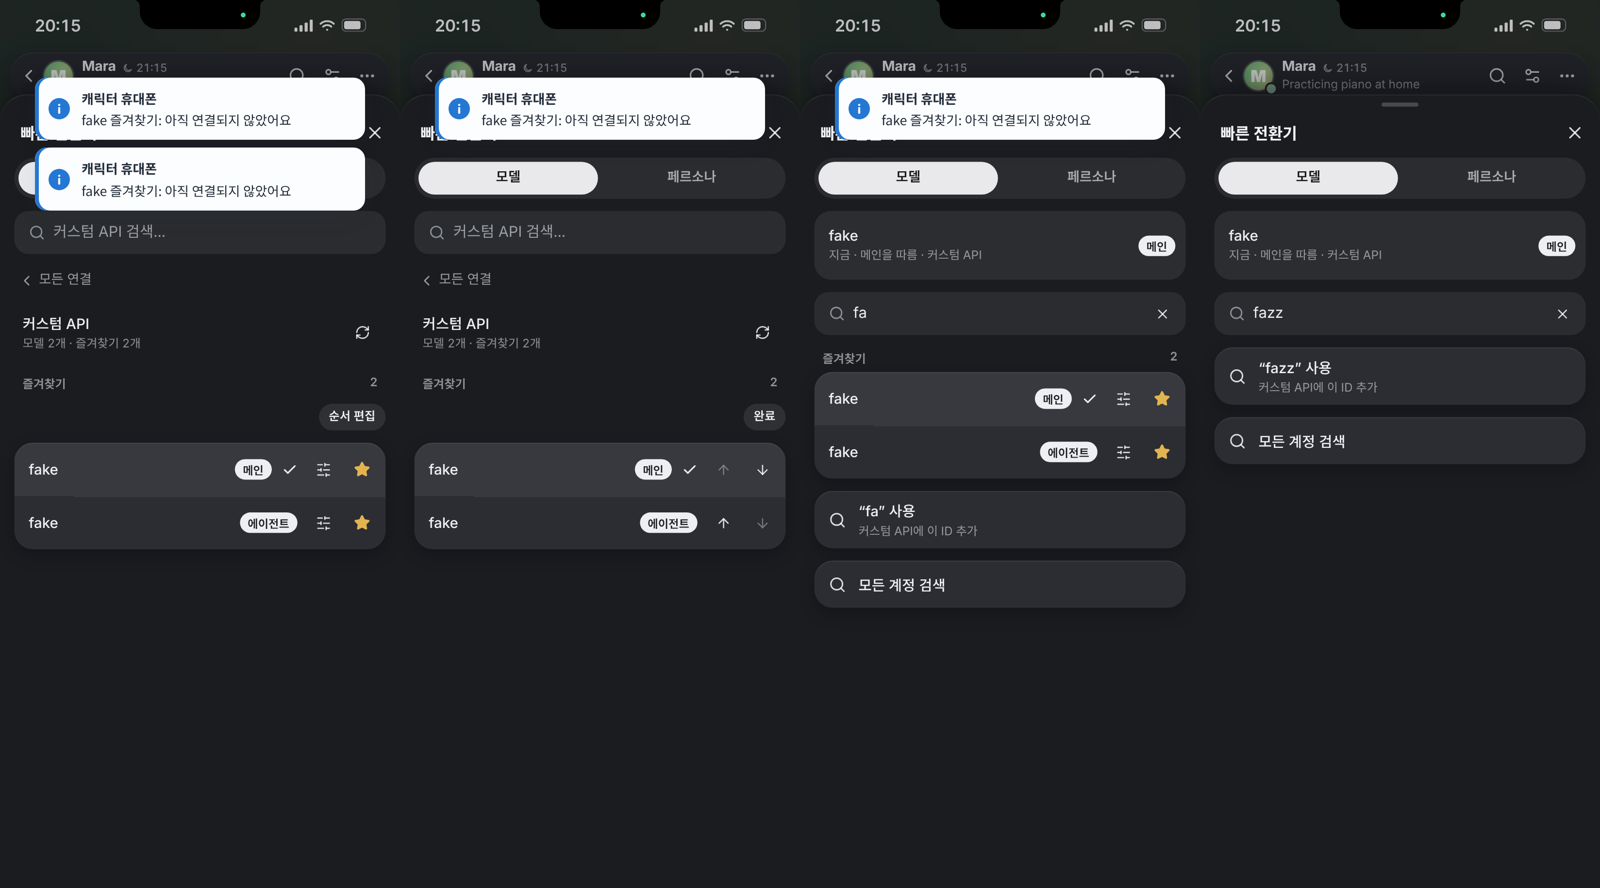
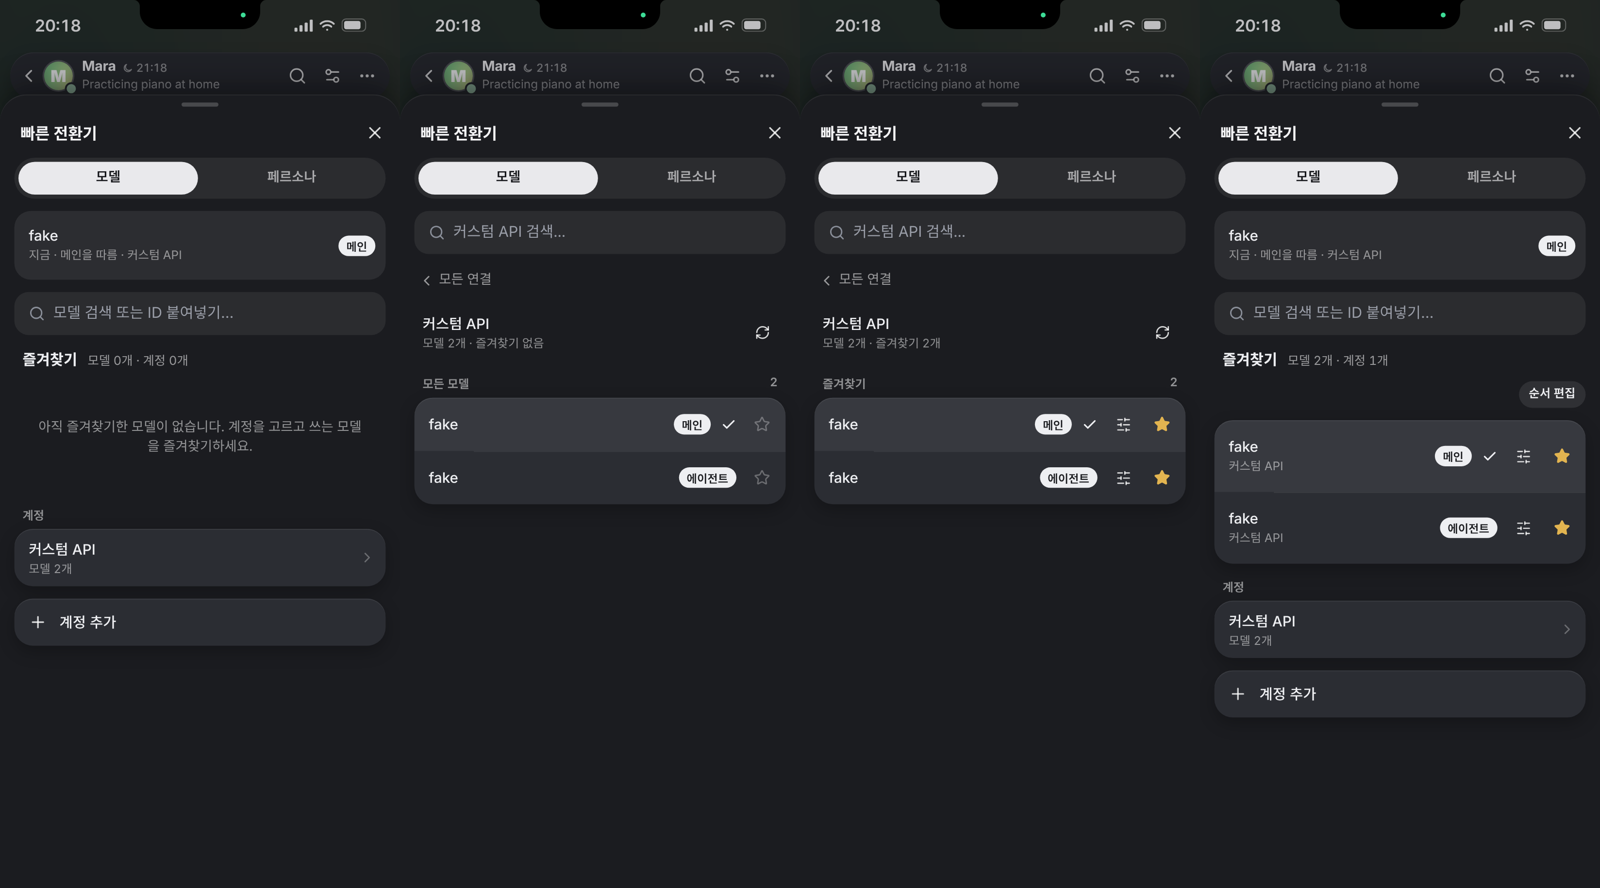
3.221.2: Orbit quick switcher shows favourites at the top of the main list; the separate favourites screen is gone
Claude-Session: https://claude.ai/code/session_01TBUyc4nvbfrUF2uL1hRtAL

diff --git a/src/phoneorbitset.js b/src/phoneorbitset.js
@@ -223,7 +223,7 @@ export function orbitSetPage(T, face) {
 }
 
 // 빠른 전환기 (마리나라 QuickSwitcherMobile + ConnectionSwitcherBody + CharacterPickerList, fc0333c: 입력칸의 ^ 로 열어요).
-// 탭 둘: 모델(지금 줄 · 검색 · 왼쪽 목록[즐겨찾기 · 계정] ↔ 오른쪽 목록[그 계정의 즐겨찾기 · 모든 모델], 폰은 한 번에 한쪽) · 페르소나(검색 · 없음 · 목록).
+// 탭 둘: 모델(지금 줄 · 검색 · 맨 화면[즐겨찾기 · 계정] ↔ 계정 화면[그 계정의 즐겨찾기 · 모든 모델]) · 페르소나(검색 · 없음 · 목록).
 // 무작위(주사위 · 무작위 풀)는 소망이 뺐고, 컨텍스트 막대는 값을 줄 함수가 없어 W.ctx가 있을 때만 그려요.
 // W: { tab, q, pq, drilled, pane, order, stars: [id], conns: [{ id, name, sub, roles: [] }], personas: [{ id, name, title, src, cur }], limit, ctx: { used, max, pct } | null }
 export function orbitSwitcher(W) {
@@ -234,7 +234,7 @@ export function orbitSwitcher(W) {
         const all = W.conns.filter(c => c.name && c.name !== '모델 없음'), cur = all[0] || null, stars = new Set(W.stars), q = W.q.trim().toLowerCase();
         const groups = []; for (const c of all) { const k = c.sub || c.name; let g = groups.find(x => x.key === k); if (!g) groups.push(g = { key: k, name: k, rows: [] }); g.rows.push(c); }
         const groupOf = c => groups.find(g => g.rows.includes(c)), starred = W.stars.map(id => all.find(c => c.id === id)).filter(Boolean);
-        const paneKey = W.pane ?? (starred.length ? 'starred' : (cur ? groupOf(cur).key : 'starred')), paneGroup = groups.find(g => g.key === paneKey);
+        const paneGroup = W.drilled ? groups.find(g => g.key === W.pane) : null, paneKey = paneGroup?.key;   // (즐겨찾기 화면은 따로 없어요: 맨 화면 맨 위에 있어요, 소망)
         const tile = () => '';   // (제공자 글자 타일은 소망이 뺐어요)
         // 모델 한 줄 (ModelRow): 타일 · 이름 · 둘째 줄(어디서 도는지) · 역할 알약 · 지금 것이면 ✓ · [순서 ↑↓ | 설정 · 즐겨찾기]
         const row = (c, o = {}) => { const st = stars.has(c.id), is = c === cur, ord = W.order && o.order, sub = o.away ? (groupOf(c)?.name || '') : (o.sub ?? '');
@@ -253,15 +253,14 @@ export function orbitSwitcher(W) {
             const use = target && !/\s/.test(typed) && !all.some(c => c.name === typed) ? cd(`<div role="button" tabindex="0" class="os_rw ot_t na_ob_soon" aria-label="“${esc(typed)}” 사용">${li('search', 17)}<span class="ot_x"><span class="os_l">“${esc(typed)}” 사용</span><span class="os_d">${esc(target.name)}에 이 ID 추가</span></span></div>`) : '';
             body = now + search + secs.filter(s => s[1].length).map(([l, r, away]) => cap(l, r.length) + cd(...r.map(c => row(c, { away })))).join('') + use
                 + (hits.length || use ? '' : none('일치하는 모델이 없습니다.')) + (paneGroup ? cd(`<div role="button" tabindex="0" class="os_rw na_ow_qall" aria-label="모든 계정 검색">${li('search', 17)}<span class="os_l">모든 계정 검색</span></div>`) : ''); }
-        else if (!W.drilled) body = now + search   // 왼쪽 목록: 즐겨찾기 · 계정들 · 계정 추가
-            + cd(`<div role="button" tabindex="0" class="os_rw na_ow_pane${paneKey === 'starred' ? ' cur' : ''}" data-v="starred" aria-pressed="${paneKey === 'starred'}"><span class="ow_tile star">${li('star', 15)}</span><span class="os_l">즐겨찾기</span><span class="os_v cg_num">${starred.length}</span><i class="os_ch">${li('chevron-right', 16)}</i></div>`)
-            + cap('계정') + cd(...groups.map(g => `<div role="button" tabindex="0" class="os_rw ot_t na_ow_pane${paneKey === g.key ? ' cur' : ''}" data-v="${esc(g.key)}" aria-pressed="${paneKey === g.key}">${tile(g.rows[0])}<span class="ot_x"><span class="os_l">${esc(g.name)}</span><span class="os_d">모델 ${g.rows.length}개</span></span><i class="os_ch">${li('chevron-right', 16)}</i></div>`)) + add;
-        else { const back = `<button type="button" class="ow_back na_ow_back">${li('chevron-left', 16)}모든 연결</button>`;   // 오른쪽 목록: 즐겨찾기 전체, 또는 한 계정의 즐겨찾기 · 모든 모델
-            if (paneGroup) { const st = paneGroup.rows.filter(c => stars.has(c.id)).sort((a, b) => W.stars.indexOf(a.id) - W.stars.indexOf(b.id)), rest = paneGroup.rows.filter(c => !stars.has(c.id));
-                body = search + back + `<div class="os_pp ow_hd">${tile(paneGroup.rows[0])}<span class="ot_x"><span class="os_l">${esc(paneGroup.name)}</span><span class="os_d">모델 ${paneGroup.rows.length}개 · ${st.length ? `즐겨찾기 ${st.length}개` : '즐겨찾기 없음'}</span></span><button type="button" class="os_ib na_ob_soon" aria-label="모델 목록 새로 고침">${li('refresh-cw', 15)}</button></div>`
-                    + (st.length ? cap('즐겨찾기', st.length) + (st.length > 1 ? orderBtn : '') + cd(...st.map(c => row(c, { order: st.length > 1 }))) : '') + (rest.length ? cap('모든 모델', rest.length) + cd(...rest.map(c => row(c))) : '') + (st.length + rest.length ? '' : none('여기에는 아직 모델이 없습니다.')); }
-            else body = search + back + `<div class="ow_ttl"><b>즐겨찾기</b><span>모델 ${starred.length}개 · 계정 ${new Set(starred.map(c => groupOf(c).key)).size}개</span></div>`
-                + (starred.length > 1 ? orderBtn : '') + (starred.length ? cd(...starred.map(c => row(c, { away: true, order: starred.length > 1 }))) : none('아직 즐겨찾기한 모델이 없습니다. 계정을 고르고 쓰는 모델을 즐겨찾기하세요.')); }
+        else if (!paneGroup) body = now + search   // 맨 화면: 즐겨찾기(맨 위) · 계정들 · 계정 추가
+            + `<div class="ow_ttl"><b>즐겨찾기</b><span>모델 ${starred.length}개 · 계정 ${new Set(starred.map(c => groupOf(c).key)).size}개</span></div>`
+            + (starred.length > 1 ? orderBtn : '') + (starred.length ? cd(...starred.map(c => row(c, { away: true, order: starred.length > 1 }))) : none('아직 즐겨찾기한 모델이 없습니다. 계정을 고르고 쓰는 모델을 즐겨찾기하세요.'))
+            + cap('계정') + cd(...groups.map(g => `<div role="button" tabindex="0" class="os_rw ot_t na_ow_pane" data-v="${esc(g.key)}"><span class="ot_x"><span class="os_l">${esc(g.name)}</span><span class="os_d">모델 ${g.rows.length}개</span></span><i class="os_ch">${li('chevron-right', 16)}</i></div>`)) + add;
+        else { const back = `<button type="button" class="ow_back na_ow_back">${li('chevron-left', 16)}모든 연결</button>`;   // 한 계정의 화면: 그 계정의 즐겨찾기 · 모든 모델
+            const st = paneGroup.rows.filter(c => stars.has(c.id)).sort((a, b) => W.stars.indexOf(a.id) - W.stars.indexOf(b.id)), rest = paneGroup.rows.filter(c => !stars.has(c.id));
+            body = search + back + `<div class="os_pp ow_hd"><span class="ot_x"><span class="os_l">${esc(paneGroup.name)}</span><span class="os_d">모델 ${paneGroup.rows.length}개 · ${st.length ? `즐겨찾기 ${st.length}개` : '즐겨찾기 없음'}</span></span><button type="button" class="os_ib na_ob_soon" aria-label="모델 목록 새로 고침">${li('refresh-cw', 15)}</button></div>`
+                + (st.length ? cap('즐겨찾기', st.length) + cd(...st.map(c => row(c))) : '') + (rest.length ? cap('모든 모델', rest.length) + cd(...rest.map(c => row(c))) : '') + (st.length + rest.length ? '' : none('여기에는 아직 모델이 없습니다.')); }
         if (W.ctx) body = `<div class="ow_ctx"><div><span>컨텍스트</span><b class="cg_num">${esc(W.ctx.used)} / ${esc(W.ctx.max)} 토큰</b></div><i><i style="width:${Math.max(0, Math.min(100, W.ctx.pct))}%"></i></i></div>` + body;
     } else {   // 페르소나 (CharacterPickerList kind="persona"): 검색 · 없음 · 페르소나 줄(지금 것에 ✓) · 50개씩 더 보기
         const q = W.pq.trim().toLowerCase(), list = W.personas.filter(p => !q || `${p.name} ${p.title || ''}`.toLowerCase().includes(q)), any = W.personas.some(p => p.cur);

diff --git a/src/phone.js b/src/phone.js
@@ -1180,7 +1180,7 @@ export async function openPhone(who = null) {
     $root.on('click', '.na_ob_sx', e => { e.stopPropagation(); obSet = ''; obFindQ = ''; obSetUi = { v: {}, open: '', tzQ: '', busy: false }; drawPhone(true); });
     // 빠른 전환기 (입력칸의 ^): 모델 · 페르소나. 고르기 · 별표는 아직 동작이 없어요(별표는 시트가 열린 동안만 기억)
     const swFocus = sel => { const el = $root.find(sel)[0]; if (el) { el.focus({ preventScroll: true }); const s = window.getSelection(); s.selectAllChildren(el); s.collapseToEnd(); } };
-    $root.on('click', '.na_ob_sw', e => { e.stopPropagation(); if (obFix || obHeld || obPicks || obList || !obCanEdit()) return; obMenu = false; obEmo = null; obSw = obSw ? null : { tab: 'models', q: '', pq: '', drilled: true, pane: null, order: false, stars: [], limit: 50 }; drawPhone(true); });
+    $root.on('click', '.na_ob_sw', e => { e.stopPropagation(); if (obFix || obHeld || obPicks || obList || !obCanEdit()) return; obMenu = false; obEmo = null; obSw = obSw ? null : { tab: 'models', q: '', pq: '', drilled: false, pane: null, order: false, stars: [], limit: 50 }; drawPhone(true); });
     $root.on('click', '.na_ow_x', e => { e.stopPropagation(); obSw = null; drawPhone(true); });
     $root.on('click', '.na_ow_tab', function (e) { e.stopPropagation(); if (obSw) { obSw.tab = this.dataset.v; drawPhone(true); } });
     $root.on('input', '.na_ow_q, .na_ow_pq', function () { if (!obSw) return; const m = this.classList.contains('na_ow_q'); obSw[m ? 'q' : 'pq'] = this.innerText.replace(/\n/g, ''); if (!m) obSw.limit = 50; clearTimeout(this._t); this._t = setTimeout(() => { if (phoneClosed || !stillHere() || !obSw) return; drawPhone(true); swFocus(m ? '.na_ow_q' : '.na_ow_pq'); }, 220); });
@@ -1188,7 +1188,7 @@ export async function openPhone(who = null) {
     $root.on('click', '.na_ow_qx, .na_ow_pqx', function (e) { e.stopPropagation(); if (!obSw) return; const m = this.classList.contains('na_ow_qx'); obSw[m ? 'q' : 'pq'] = ''; drawPhone(true); swFocus(m ? '.na_ow_q' : '.na_ow_pq'); });
     $root.on('click', '.na_ow_back', e => { e.stopPropagation(); if (obSw) { obSw.drilled = false; obSw.order = false; drawPhone(true); } });
     $root.on('click', '.na_ow_pane', function (e) { e.stopPropagation(); if (obSw) { obSw.pane = this.dataset.v; obSw.drilled = true; obSw.order = false; drawPhone(true); } });
-    $root.on('click', '.na_ow_qall', e => { e.stopPropagation(); if (obSw) { obSw.pane = 'starred'; drawPhone(true); swFocus('.na_ow_q'); } });
+    $root.on('click', '.na_ow_qall', e => { e.stopPropagation(); if (obSw) { obSw.pane = null; obSw.drilled = false; drawPhone(true); swFocus('.na_ow_q'); } });
     $root.on('click', '.na_ow_order', e => { e.stopPropagation(); if (obSw) { obSw.order = !obSw.order; drawPhone(true); } });
     $root.on('click', '.na_ow_star', function (e) { e.stopPropagation(); if (!obSw) return; const id = this.dataset.id, at = obSw.stars.indexOf(id); if (at < 0) obSw.stars.push(id); else obSw.stars.splice(at, 1); obNotYet(this); drawPhone(true); });
     $root.on('click', '.na_ow_mv', function (e) { e.stopPropagation(); if (!obSw) return; const a = obSw.stars, at = a.indexOf(this.dataset.id), to = at + Number(this.dataset.by); if (at < 0 || to < 0 || to >= a.length) return; [a[at], a[to]] = [a[to], a[at]]; drawPhone(true); });

diff --git a/src/core.js b/src/core.js
@@ -12,7 +12,7 @@ import { parseSections } from './sections.js';
 
 export const MODULE = 'narrative_archive';
 export const PROMPT_KEY = 'narrative_archive_injection';
-export const VERSION = '3.221.1';
+export const VERSION = '3.221.2';
 export const SNAPSHOT_MAX = 5;
 export const SNAPSHOT_MAX_CHARS = 2_000_000;
 

diff --git a/docs/MARINARA-PORT.md b/docs/MARINARA-PORT.md
@@ -124,7 +124,7 @@
 | 마리나라 파일 | 줄 | 화면 | 동작 | 빠진 것 · 다른 데 |
 |---|---|---|---|---|
 | components/chat/QuickSwitcherMobile.tsx | 172 | 다 | 열기 · 닫기 · 탭 | ^ 단추 둘레의 컨텍스트 고리, 탭 위 컨텍스트 막대는 값을 줄 함수가 없어 안 떠요(`W.ctx`가 오면 그려요) |
-| components/connections/ConnectionSwitcherBody.tsx | 1740 | 일부 | 검색 · 목록 오가기 · 순서 편집 | 지금 줄, 검색(즐겨찾기 → 계정별 → 친 글자를 ID로, 계정 안에서만 찾기 · 모든 계정 검색), 왼쪽 목록(즐겨찾기 · 계정 · 계정 추가), 오른쪽 목록(계정 머리 · 새로 고침 · 즐겨찾기 · 모든 모델), 모델 줄(역할 알약 · ✓ · 설정 · 즐겨찾기 · ↑↓)은 다 있어요. 고르기 · 즐겨찾기는 저장되지 않아요(누르면 알림, 즐겨찾기는 시트가 열린 동안만). 없는 것: 무작위(소망이 뺌), 폴더 묶음 · 내장 모델 줄 · 계정의 켜기/키 추가 단추 · 사용량 막대 · 한도 도달 알약 · 값(비용) 알약 · 곧 없어질 모델 안내(우리에겐 그 정보가 없음), "기본값 사용" 단추(메인을 안 따를 때만 뜨는데 우리는 늘 메인을 따름), 고른 뒤의 되돌리기 · "메인 모델로 만들기" 알림 |
+| components/connections/ConnectionSwitcherBody.tsx | 1740 | 일부 | 검색 · 목록 오가기 · 순서 편집 | 지금 줄, 검색(즐겨찾기 → 계정별 → 친 글자를 ID로, 계정 안에서만 찾기 · 모든 계정 검색), 맨 화면(즐겨찾기가 맨 위 · 계정 · 계정 추가: 즐겨찾기만 따로 여는 화면은 소망이 뺌), 계정 화면(계정 머리 · 새로 고침 · 즐겨찾기 · 모든 모델), 모델 줄(역할 알약 · ✓ · 설정 · 즐겨찾기 · ↑↓)은 다 있어요. 고르기 · 즐겨찾기는 저장되지 않아요(누르면 알림, 즐겨찾기는 시트가 열린 동안만). 없는 것: 무작위(소망이 뺌), 폴더 묶음 · 내장 모델 줄 · 계정의 켜기/키 추가 단추 · 사용량 막대 · 한도 도달 알약 · 값(비용) 알약 · 곧 없어질 모델 안내(우리에겐 그 정보가 없음), "기본값 사용" 단추(메인을 안 따를 때만 뜨는데 우리는 늘 메인을 따름), 고른 뒤의 되돌리기 · "메인 모델로 만들기" 알림 |
 | components/characters/CharacterPickerList.tsx | 652 | 일부 | 검색 · 더 보기 | 검색 · 없음 줄 · 페르소나 줄(사진 · 제목 · ✓) · 50개씩 더 보기 · 빈 상태 · 안 맞을 때 "검색 지우기"는 다 있어요. 고르기는 저장되지 않아요. 없는 것: 페르소나 폴더, "캐릭터로 플레이" 묶음(실리태번에 그 개념이 없음) |
 | components/connections/ModelRow.tsx · ServiceRow.tsx · ListFrame.tsx · chat/ContextBudgetIndicator.tsx | 334 · 177 · 183 · 70 | (위 화면의 부품) | | 제공자 타일은 없음(소망이 뺌) |
 

diff --git a/docs/design/orbit-marinara.md b/docs/design/orbit-marinara.md
@@ -132,7 +132,7 @@
 ### 1-6. 빠른 전환기 (3.221.0)
 
 - 입력칸의 ^ 로 열어요(열려 있으면 ^ 가 뒤집혀요). 시트는 채팅 설정과 같은 것(`os_sh`), 탭은 `os_sg`.
-- 모델 탭은 마리나라처럼 한 번에 한쪽만: 왼쪽 목록(즐겨찾기 · 계정) ↔ 오른쪽 목록(그 계정의 모델). 처음엔 오른쪽 목록이 열려 있고 "모든 연결"로 왼쪽으로 가요. 뒤로 가기 단추도 같아요.
+- 모델 탭: 맨 화면(지금 줄 · 검색 · 즐겨찾기 · 계정 · 계정 추가)에서 계정을 누르면 그 계정의 모델 화면, "모든 연결"이나 뒤로 가기로 돌아와요. 즐겨찾기는 맨 화면 맨 위에 늘 있어요(따로 여는 화면 없음, 소망).
 - 부품(`ow_*`): 지금 줄(`ow_now`), 모델 줄(`ow_row` + `ow_pick`), 즐겨찾기 타일(`ow_tile`), 별(`ow_st`), 페르소나 사진(`ow_av`).
 - 무엇이 있고 빠졌는지는 `docs/MARINARA-PORT.md`의 "빠른 전환기".
 
